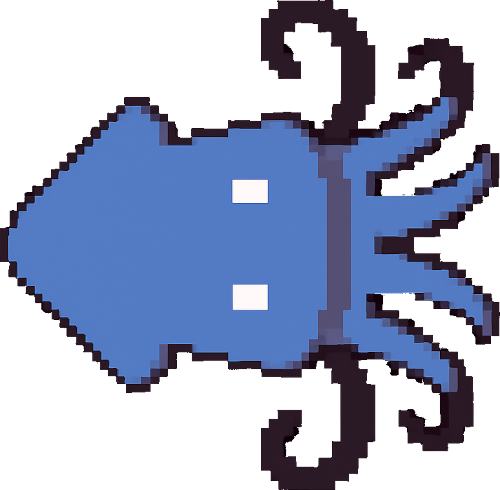
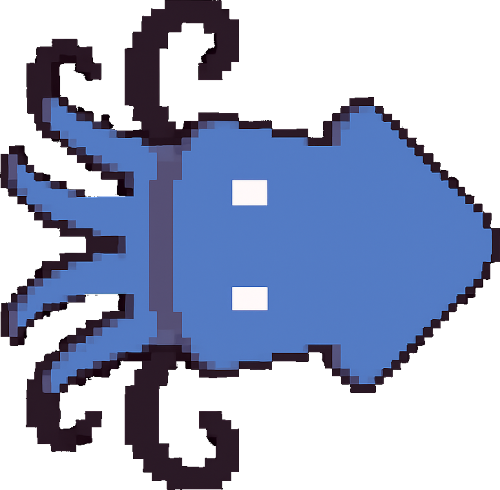
雑魚敵の移動方向４つにした

diff --git a/Src/Object/Enemy/EnemyBase.cpp b/Src/Object/Enemy/EnemyBase.cpp
@@ -11,6 +11,7 @@ EnemyBase::EnemyBase(NUMBER num):
 	number_(num),
 	imgs_(),
 	drawScale_(1.0f),
+
 	animSpeed(),
 	animCounter_(),
 	animInterval_(),
@@ -33,9 +34,10 @@ void EnemyBase::Load(void)
 
 void EnemyBase::Init(void)
 {
-	unit_.pos_ = RES_POS[number_];
+	dir_ = DIR::RIGHT;
+	unit_.pos_ = RES_POS[(int)dir_][number_];
 	unit_.isAlive_ = true;
-	moveVec_ = { -1.0f,0.0f };
+	moveVec_ = MOVE_VEC_TABLE[(int)dir_];
 	parry_ = false;
 }
 
@@ -54,7 +56,7 @@ void EnemyBase::Update(void)
 void EnemyBase::Draw(void)
 {
 	if (!unit_.isAlive_) { return; }
-	DrawRotaGraphF(unit_.pos_.x, unit_.pos_.y, drawScale_, (parry_) ? Utility::Deg2RadF(180.0f) : 0.0f, imgs_[animCounter_], true);
+	DrawRotaGraphF(unit_.pos_.x, unit_.pos_.y, drawScale_, atan2f(moveVec_.y, moveVec_.x), imgs_[animCounter_], true);
 	if (arrow_) {
 		DrawRotaGraphF(unit_.pos_.x, unit_.pos_.y, 1, arrowAngle_, arrowImg_, true);
 	}
@@ -127,8 +129,12 @@ void EnemyBase::OnCollision(UnitBase* other)
 void EnemyBase::Move(void)
 {
 	unit_.pos_ += moveVec_ * ((parry_) ? PARRY_SPEED : unit_.para_.speed);
-	if ((unit_.pos_.x + (unit_.para_.size.x / 2.0f) < 0.0f) ||
-		unit_.pos_.x - (unit_.para_.size.x / 2.0f) > Application::SCREEN_SIZE_X) {
+	if (
+		(unit_.pos_.x + (unit_.para_.size.x / 2.0f) < 0.0f) ||
+		(unit_.pos_.y + (unit_.para_.size.y / 2.0f) < 0.0f) ||
+		(unit_.pos_.x - (unit_.para_.size.x / 2.0f) > Application::SCREEN_SIZE_X) ||
+		(unit_.pos_.y - (unit_.para_.size.y / 2.0f) > Application::SCREEN_SIZE_Y)
+		) {
 		unit_.isAlive_ = false;
 	}
 }
@@ -137,9 +143,9 @@ void EnemyBase::Respawn(void)
 {
 	if (++respawnCounter_ >= respawnTime) {
 		respawnCounter_ = 0;
-		unit_.pos_ = RES_POS[number_];
+		unit_.pos_ = RES_POS[(int)dir_][number_];
 		unit_.isAlive_ = true;
-		moveVec_ = { -1.0f,0.0f };
+		moveVec_ = MOVE_VEC_TABLE[(int)dir_];
 		parry_ = false;
 		unit_.para_.colliType = CollisionType::ENEMY;
 	}

diff --git a/Src/Object/Enemy/Ika/Ika.cpp b/Src/Object/Enemy/Ika/Ika.cpp
@@ -15,7 +15,7 @@ void Ika::Load(void)
 	EnemyBase::Load();
 	imgs_.emplace_back(Utility::LoadImg("Data/Image/Enemy/Ika/Ika.png"));
 
-	drawScale_ = 0.12f;
+	drawScale_ = 0.2f;
 
 	unit_.para_.size.x = SIZE_X;
 	unit_.para_.size.y = SIZE_Y;
@@ -39,4 +39,22 @@ void Ika::Move(void)
 
 	if (parry_) { return; }
 
+}
+
+void Ika::Respawn(void)
+{
+	if (++respawnCounter_ >= respawnTime) {
+		respawnCounter_ = 0;
+
+		dir_ = (DIR)(GetRand(((int)DIR::MAX)) - 1);
+
+		unit_.pos_ = RES_POS[(int)dir_][number_];
+
+		unit_.isAlive_ = true;
+
+		moveVec_ = MOVE_VEC_TABLE[(int)dir_];
+
+		parry_ = false;
+		unit_.para_.colliType = CollisionType::ENEMY;
+	}
 }

diff --git a/Src/Scene/Game/GameScene.cpp b/Src/Scene/Game/GameScene.cpp
@@ -61,7 +61,6 @@ void GameScene::Load(void)
 	blast_ = new BlastEffectManager();
 	blast_->Load();
 
-	auto kinds = SelectScene::GetNowBoss();
 	
 	
 	player_ = new Player();
@@ -70,6 +69,7 @@ void GameScene::Load(void)
 	collision_->Add(player_->ParryIns());
 	collision_->Add(player_->LaserIns());
 
+	auto kinds = SelectScene::GetNowBoss();
 
 	switch (kinds)
 	{
@@ -89,7 +89,7 @@ void GameScene::Load(void)
 		break;
 	case SelectScene::BOSS_KINDS::KRAKEN:
 
-		stage_ = new BlueStage();
+		stage_ = new OrangeStage();
 
 		boss_ = new Kraken(player_->GetUnit().pos_);
 

diff --git a/Src/Object/Enemy/Ika/Ika.h b/Src/Object/Enemy/Ika/Ika.h
@@ -5,8 +5,8 @@
 class Ika :public EnemyBase
 {
 public:
-	static constexpr int SIZE_X = 64;
-	static constexpr int SIZE_Y = 38;
+	static constexpr int SIZE_X = 100;
+	static constexpr int SIZE_Y = 98;
 
 	static constexpr float MOVE_SPEED = 5.0f;
 
@@ -21,4 +21,6 @@ public:
 
 private:
 	void Move(void)override;
+
+	void Respawn(void)override;
 };

diff --git a/Src/Object/Player/Player.cpp b/Src/Object/Player/Player.cpp
@@ -207,8 +207,8 @@ void Player::Release(void)
 void Player::OnCollision(UnitBase* other)
 {
 	if (state_ == STATE::DEATH) { return; }
-	GameScene::Shake(ShakeKinds::ROUND, ShakeSize::MEDIUM);
-	GameScene::Slow(20);
+	GameScene::Shake(ShakeKinds::ROUND, ShakeSize::MEDIUM,10);
+	GameScene::Slow(10);
 
 	Smng::GetIns().Play(SOUND::BLAST, true);
 

diff --git a/Src/Object/Boss/Shark/Shark.cpp b/Src/Object/Boss/Shark/Shark.cpp
@@ -290,7 +290,7 @@ void Shark::Death(void)
 
 void Shark::HpDecrease(int damage)
 {
-	GameScene::Slow(20);
+	GameScene::Slow(10);
 	GameScene::Shake();
 
 	state_ = (int)STATE::DAMAGE;
